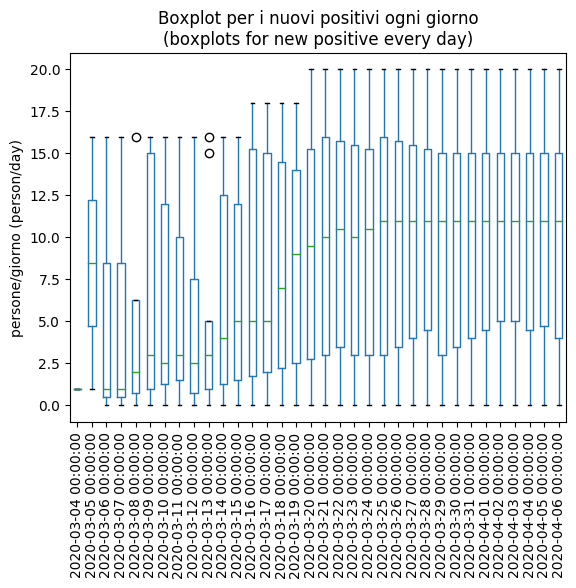
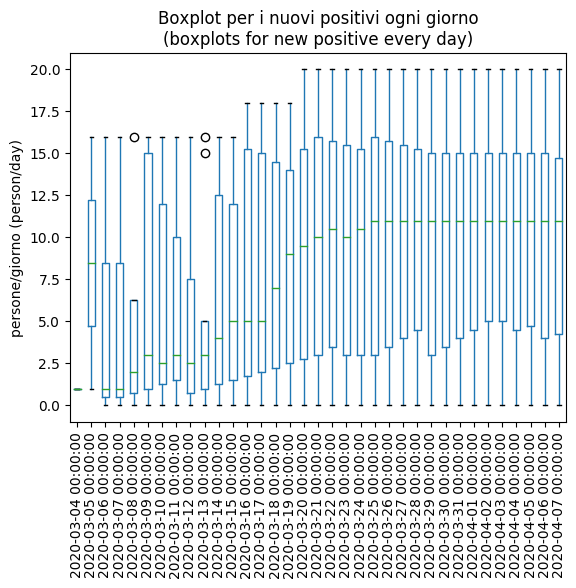
Add data for April the 7th

Changed region(s): [[0.1562, 0.0918, 1.0, 0.7041], [0.125, 0.7347, 0.9688, 1.0]]

diff --git a/COVID-19/bollettino.html b/COVID-19/bollettino.html
@@ -19,10 +19,10 @@
     <link href="https://www.ausl.imola.bo.it/flex/TemplatesUSR/assets/font-awesome-4.7.0/css/font-awesome.min.css" rel="stylesheet">
     <link href="https://www.ausl.imola.bo.it/flex/TemplatesUSR/assets/fancybox-master/dist/jquery.fancybox.min.css" rel="stylesheet">
 
-    <link rel='stylesheet' type='text/css' media='screen' href='https://www.ausl.imola.bo.it/flex/cm/pages/ServeCSS.php/L/IT/N/normalize.css/M/-/BF/-/BV/-1?mHFvTb' />
-	<link rel='stylesheet' type='text/css' media='screen' href='https://www.ausl.imola.bo.it/flex/cm/pages/ServeCSS.php/L/IT/N/flex.css/M/-/BF/-/BV/-1?lHFvTb' />
+    <link rel='stylesheet' type='text/css' media='screen' href='https://www.ausl.imola.bo.it/flex/cm/pages/ServeCSS.php/L/IT/N/normalize.css/M/-/BF/-/BV/-1?X30vTb' />
+	<link rel='stylesheet' type='text/css' media='screen' href='https://www.ausl.imola.bo.it/flex/cm/pages/ServeCSS.php/L/IT/N/flex.css/M/-/BF/-/BV/-1?X30vTb' />
     <link href='https://www.ausl.imola.bo.it/flex/TemplatesUSR/assets/css/wheelmenu.css' rel='stylesheet'>
-    <link rel="stylesheet" type="text/css" media="print" href='https://www.ausl.imola.bo.it/flex/cm/pages/ServeCSS.php/L/IT/N/print.css/M/-/BF/-/BV/-1?hDyvTb' />
+    <link rel="stylesheet" type="text/css" media="print" href='https://www.ausl.imola.bo.it/flex/cm/pages/ServeCSS.php/L/IT/N/print.css/M/-/BF/-/BV/-1?VJ0vTb' />
 
 	<!-- HTML5 Shim and Respond.js IE8 support of HTML5 elements and media queries -->
 	<!-- WARNING: Respond.js doesn't work if you view the page via file:// -->
@@ -75,13 +75,13 @@
 <meta property="og:type" content="article" />
 <meta property="og:url" content="https://www.ausl.imola.bo.it/flex/cm/pages/ServeBLOB.php/L/IT/IDPagina/10010" />
 <meta property="og:site_name" content="www.ausl.imola.bo.it" />
-<meta property="og:description" content="Tre nuovi casi positivi al Covid-19. Il totale sale a 317. Nessun decesso nella giornata di oggi." />
+<meta property="og:description" content="Cinque nuovi casi positivi al Covid-19. Il totale sale a 322. Nessun decesso nella giornata di oggi e 11 nuovi guariti con doppio tampone" />
 <meta property="og:image" content="https://www.ausl.imola.bo.it/flex/images/1/f/b/D.0f26852e5331bd3d350b/aggiornamenti_locali.jpg" />
 <meta name="twitter:card" content="summary" />
 <meta name="twitter:site" content="www.ausl.imola.bo.it" />
 <meta name="twitter:creator" content="FlexCMP" />
 <meta name="twitter:title" content="AGGIORNAMENTI LOCALI COVID" />
-<meta name="twitter:description" content="Tre nuovi casi positivi al Covid-19. Il totale sale a 317. Nessun decesso nella giornata di oggi." />
+<meta name="twitter:description" content="Cinque nuovi casi positivi al Covid-19. Il totale sale a 322. Nessun decesso nella giornata di oggi e 11 nuovi guariti con doppio tampone" />
 <meta name="twitter:image:src" content="https://www.ausl.imola.bo.it/flex/images/1/f/b/D.0f26852e5331bd3d350b/aggiornamenti_locali.jpg" />
 
 </head>
@@ -877,7 +877,9 @@
 </div>
                             
 <!-- Begin BLOB Content -->
-<div class='BLOBAlignLeft'><a href='https://www.ausl.imola.bo.it/flex/cm/pages/ServeBLOB.php/L/IT/IDPagina/9991' class='viewLink viewLinkIMG'  title='A QUESTO LINK AGGIORNAMENTI QUOTIDIANI SULLA SITUAZIONE IN EMILIA ROMAGNA'><img id='img-1' src='https://www.ausl.imola.bo.it/flex/tmp/imgResized/T-5a7db39de4ec63b30baec261aaaa4dcc-90x90.png'  width="90" height="90" alt='' />A QUESTO LINK AGGIORNAMENTI QUOTIDIANI SULLA SITUAZIONE IN EMILIA ROMAGNA</a><span class='BLOBHidden'>.</span></div><div><hr class='viewHR BLOBAlignLeft' /></div><h1 class="viewTitolo">AGGIORNAMENTI QUOTIDIANI SULL&#039;EPIDEMIA DI COVID-19 NEL TERRITORIO DEL CIRCONDARIO IMOLESE</h1><h2 class="viewSottotitolo">6 aprile</h2>
+<div class='BLOBAlignLeft'><a href='https://www.ausl.imola.bo.it/flex/cm/pages/ServeBLOB.php/L/IT/IDPagina/9991' class='viewLink viewLinkIMG'  title='A QUESTO LINK AGGIORNAMENTI QUOTIDIANI SULLA SITUAZIONE IN EMILIA ROMAGNA'><img id='img-1' src='https://www.ausl.imola.bo.it/flex/tmp/imgResized/T-5a7db39de4ec63b30baec261aaaa4dcc-90x90.png'  width="90" height="90" alt='' />A QUESTO LINK AGGIORNAMENTI QUOTIDIANI SULLA SITUAZIONE IN EMILIA ROMAGNA</a><span class='BLOBHidden'>.</span></div><div><hr class='viewHR BLOBAlignLeft' /></div><h1 class="viewTitolo">AGGIORNAMENTI QUOTIDIANI SULL&#039;EPIDEMIA DI COVID-19 NEL TERRITORIO DEL CIRCONDARIO IMOLESE</h1><h2 class="viewSottotitolo">7 aprile</h2>
+<div class='viewPar BLOBAlignJustify'><p ><strong class='userFormat1'>Cinque nuovi casi positivi al Covid-19. Il totale sale a 322. Nessun decesso nella giornata di oggi e 11 nuovi guariti con doppio tampone</strong><br />Imola – Oggi nel nostro territorio non si registrano decessi e ci sono 11 nuovi guariti con doppio tampone negativo. Sono solo 5 più di ieri le persone risultate positive al Coronavirus: 3 residenti Imola e 2 a Medicina. <br />Salgono quindi a 322 i casi positivi refertati nel Circondario Imolese (compresi 19 guariti con doppio tampone negativo, e  29 decessi così suddivisi: 23 a Medicina, 3 a Imola, 2 a Castel San Pietro Terme e 1 a Dozza)<br />Sono 191 gli uomini e 131 le donne; 162 residenti a Medicina, 97 a Imola, 30 a Castel San Pietro Terme, 6 a Dozza, 5 a Castel Guelfo, 5 a Mordano, 3 a Casalfiumanese, 3 a Borgo Tossignano e 11 persone residenti fuori dal Circondario.<br />Tra i positivi 23 hanno 85 e più anni, 68 tra i 75 e gli 84 anni, 70 tra 65 e i 74 anni, 159 tra i 14 e i 64 anni (e più precisamente, analizzando ulteriormente il dato con le linee che utilizza solitamente il Ministero della Salute: 41 nella classe d’età 14-39 e 118 tra i 40 e i 64) e 2 al di sotto dei 14 anni. <br />Sono 62 gli accessi in Pronto Soccorso nelle 24 ore ma solo 5 i ricoveri riferibili al Covid.                                                                                                         <br />10 i ricoverati in Terapia Intensiva, 5 in semi-intesiva ECU, 45 nel reparto Covid, 18 in post acuzie Covid all'Ospedale di Comunità di Castel San Pietro Terme e 8 alloggiati in albergo. <br />Le Unità speciali di continuità assistenziali a 11 giorni dal loro avvio hanno effettuato 525 triage telefonici, 220 visite domiciliari, 150 terapie, 154 tamponi e 15 ECG. <br />Da lunedì ad oggi sono stati sottoposti a visita presso l'ambulatorio infettivologico oltre 100 pazienti in terapia.<br />13 le persone clinicamente guarite dal Covid19 che oggi hanno effettuato uno dei 2 tamponi necessari per attestare la guarigione al Drive Through allestito dall'Igiene Pubblica<br /></p></div>
+<h2 class="viewSottotitolo">6 aprile</h2>
 <div class='viewPar BLOBAlignJustify'><p ><strong class='userFormat1'>Tre nuovi casi positivi al Covid-19. Il totale sale a 317. Nessun decesso nella giornata di oggi.</strong><br />Imola – Sono solo 3 più di ieri le persone risultate positive al Coronavirus: 1 residente a Medicina e 2 fuori dal territorio. Oggin on si registrano decessi.<br />Salgono quindi a 317 i casi positivi refertati nel Circondario Imolese (compresi 8 guariti con doppio tampone negativo, 2 guariti clinicamente e 29 decessi così suddivisi: 23 a Medicina, 3 a Imola, 2 a Castel San Pietro Terme e 1 a Dozza)<br />Sono 190 gli uomini e 127 le donne; 160 residenti a Medicina, 94 a Imola, 30 a Castel San Pietro Terme, 6 a Dozza, 5 a Castel Guelfo, 5 a Mordano, 3 a Casalfiumanese, 3 a Borgo Tossignano e 11 persone residenti fuori dal Circondario.<br />Tra i positivi 23 hanno 85 e più anni, 68 tra i 75 e gli 84 anni, 70 tra 65 e i 74 anni, 154 tra i 14 e i 64 anni (e più precisamente, analizzando ulteriormente il dato con le linee che utilizza solitamente il Ministero della Salute: 41 nella classe d’età 14-39 e 113 tra i 40 e i 64) e 2 al di sotto dei 14 anni.<br />Resta stabile la situazione in Ospedale. Sono 39 gli accessi in Pronto Soccorso nelle 24 ore ma solo 5 i ricoveri riferibili al Covid.<br />11 i ricoverati in Terapia Intensiva, 7 in semi-intesiva ECU, 45 nel reparto Covid, 19 in post acuzie Covid all'Ospedale di Comunità di Castel San Pietro Terme e 3 alloggiati in albergo. Da ogginel reparto internistico Covid sono partite le attività di riabilitazione respiratoria a cui sono stati dedicati 4 posti letto del 4° piano.<br />Le Unità speciali di continuità assistenziali a 10 giorni dal loro avvio hanno effettuato 490 triage telefonici, 203 visite domiciliari, 135 terapie, 136 tamponi e 14  ECG. Da lunedì ad  oggi sono stati sottoposti a visita presso l'ambulatorio infettivologico oltre 80 pazienti in terapia.<br /></p></div>
 <h2 class="viewSottotitolo">5 aprile </h2>
 <div class='viewPar BLOBAlignJustify'><p >Imola – Sono 12 più di  ieri le persone risultate positive al Coronavirus: 6 residenti a Medicina, 3 ad Imola, 1 a Castel San Pietro Terme, 1 Mordano e 1 fuori territorio<br />Purtroppo  oggi sono due le famiglie che subiscono un lutto a Medicina. Sono deceduti un uomo e una donna rispettivamente di 77 e 75 anni. Salgono quindi a 314 i casi positivi refertati nel Circondario Imolese (compresi 8 guariti con doppio tampone negativo, 2 guariti clinicamente e 29 decessi così suddivisi: 23 a Medicina, 3 a Imola, 2 a Castel San Pietro Terme e 1 a Dozza)<br />Sono 189 gli uomini e 125 le donne; 159 residenti a Medicina, 94 a Imola, 30 a Castel San Pietro Terme, 6 a Dozza, 5 a Castel Guelfo, 5 a Mordano, 3 a Casalfiumanese, 3 a Borgo Tossignano e 9 persone residenti fuori dal Circondario.<br />Tra i positivi 23 hanno 85 e più anni, 67 tra i 75 e gli 84 anni, 68 tra 65 e i 74 anni, 154 tra i 14 e i 64 anni (e più precisamente, analizzando ulteriormente il dato con le linee che utilizza solitamente il Ministero della Salute: 41 nella classe d’età 14-39 e 113 tra i 40 e i 64) e 2 al di sotto dei 14 anni. <br />6 le persone ricoverate in semi-intesiva ECU,  42 i ricoverati nel reparto Covid, 19 in post acuzie Covid all'Ospedale di Comunità di Castel San Pietro Terme e 3 alloggiati in albergo. Dall'ingresso del primo paziente Covid+ in Terapia Intensiva ad Imola, esattamente un mese fa, sono state 24 le persone che sono state ricoverate in questo reparto con COVID, di cui 9 quelli che sono ricoverati ad  oggi, 10 i trasferiti in altro reparto e 5 i deceduti. Le Unità speciali di continuità assistenziali a 9 giorni dal loro avvio hanno effettuato 465 triage telefonici, 187 visite domiciliari, 121 terapie, 123 tamponi e 12  ECG. Da lunedì ad  oggi sono stati sottoposti a visita presso l'ambulatorio infettivologico 64 pazienti in terapia.</p></div>
